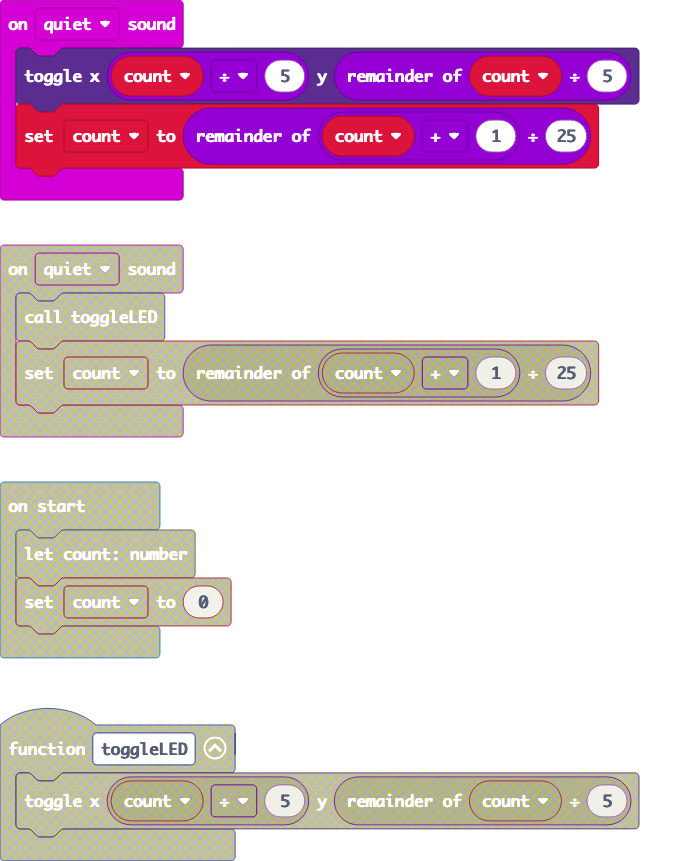
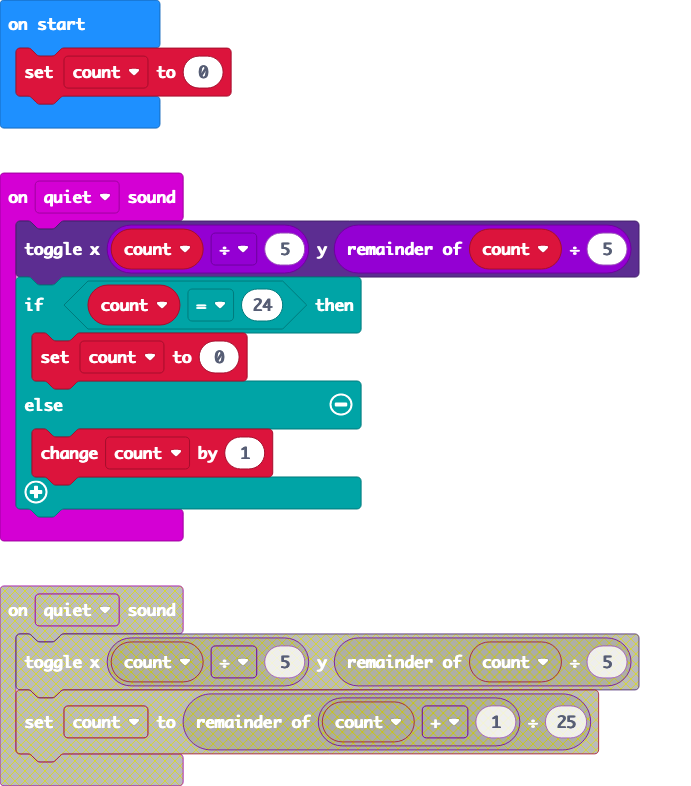
finally works for some mysterious reason

diff --git a/main.ts b/main.ts
@@ -1,5 +1,10 @@
-let count: number = 0
 input.onSound(DetectedSound.Quiet, function () {
     led.toggle(count / 5, count % 5)
-    count = (count + 1) % 25
+    if (count == 24) {
+        count = 0
+    } else {
+        count += 1
+    }
 })
+let count = 0
+count = 0
